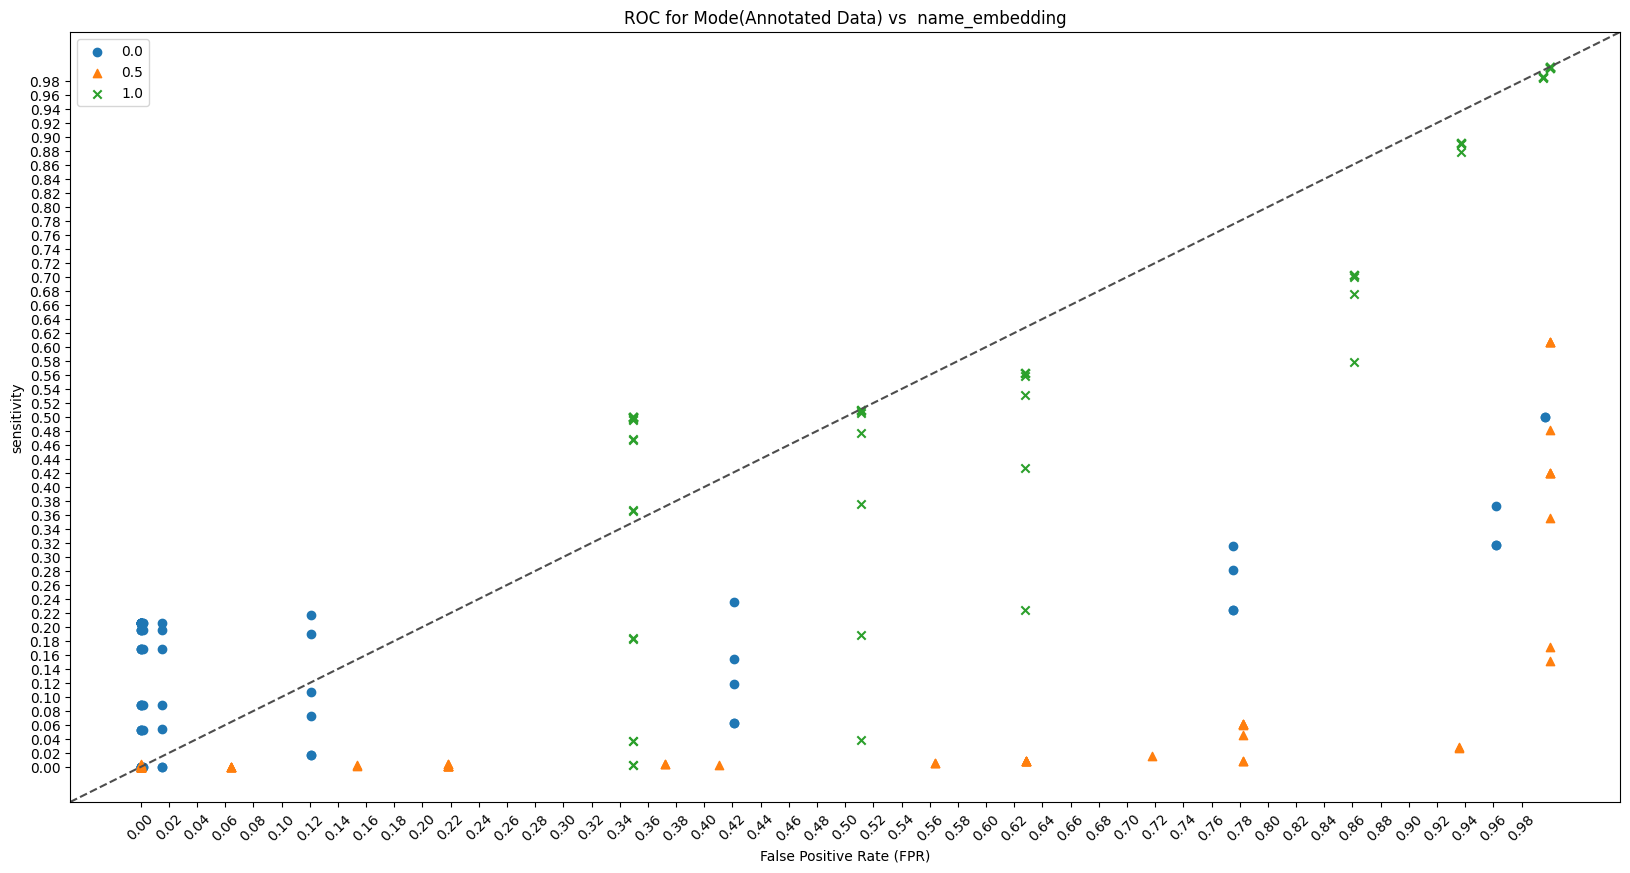
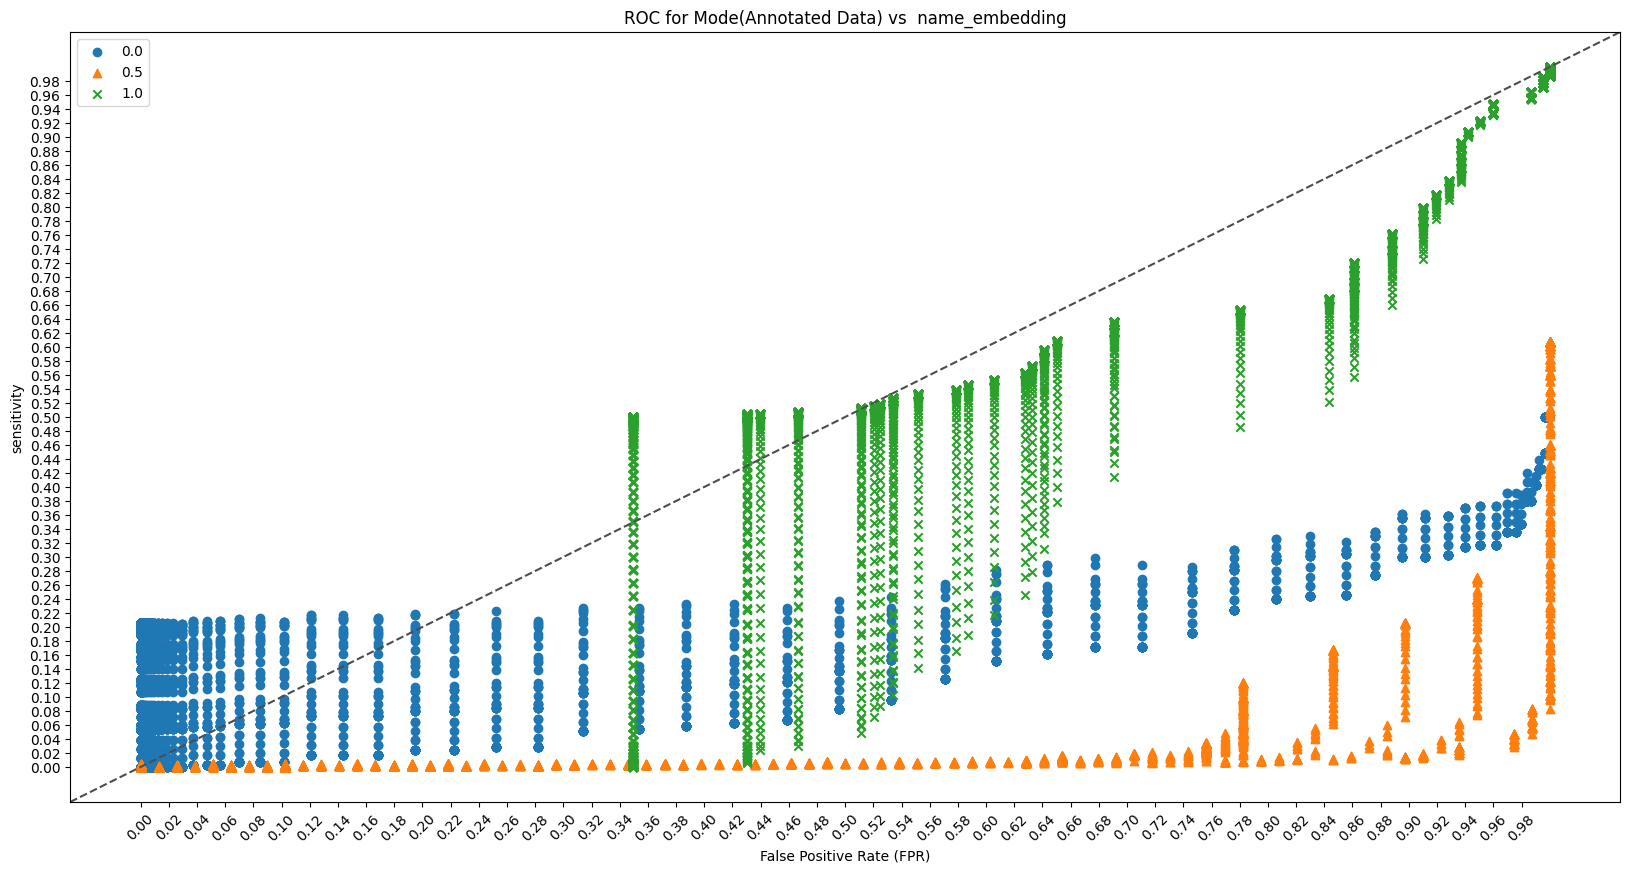
updated

diff --git a/Implementation/AnnotatedDataHandler.py b/Implementation/AnnotatedDataHandler.py
@@ -431,11 +431,11 @@ class AnnotatedDataHandler:
             averagedData.append(cellData)
         return averagedData
 
-    def collapseDataSetTo1d(self, list2dWithHeaders):
+    def collapseDataSetTo1d(self, list2dWithoutHeaders):
         list1d = []
         rowIterator = 0
         colHeadNameList = []
-        for row in list2dWithHeaders:
+        for row in list2dWithoutHeaders:
             rowIterator += 1
             # if rowIterator == 1:
             #     for attr in row:
@@ -607,10 +607,8 @@ class AnnotatedDataHandler:
         # maxFive = 0.1
         ovr_conditions = []
         ovo_conditions = []
-        while minFive < float(0.91):
-            if minFive == 1:
-                print(minFive)
-            maxFive = minFive
+        while minFive < float(0.991):
+            maxFive = minFive + float(0.01)
             while maxFive <= float(1.0):
                 thresholds = {"0.0": minFive, "0.5": maxFive}
                 conditions = {}
@@ -624,10 +622,10 @@ class AnnotatedDataHandler:
                 cm = confusion_matrix(annotatedData, data_in_1d,
                                       labels=target_names)  # , rownames=['Actual'], colnames=['Predicted'])
                 conditions["ovr"] = annotatedDataHandler.calculate_ovr_conditions(cm, thresholds)
-                print(thresholds)
+                # print(thresholds)
                 ovr_conditions.append(conditions["ovr"])
-                maxFive = float(Decimal(maxFive) + Decimal('.1'))
-            minFive = float(Decimal(minFive) + Decimal('.1'))
+                maxFive = float(Decimal(maxFive) + Decimal('.01'))
+            minFive = float(Decimal(minFive) + Decimal('.01'))
 
         print("Method " + self.computed_method[methodIndex] + " finished processing.")
 
@@ -679,7 +677,7 @@ class AnnotatedDataHandler:
 
     # Plot precision vs recall
     def plot_pr(self, condition_from_experimental_iterations, plotTitle):
-        fig = plt.figure(figsize=(20, 20))
+        fig = plt.figure(figsize=(20, 10))
         ax = fig.add_subplot(111)
         plt.xlabel('Recall')
         plt.ylabel('Precision')
@@ -698,10 +696,10 @@ class AnnotatedDataHandler:
 
             plt.plot(recall_from_experimental_iterations, precision_from_experimental_iterations, linestyle='dashed',
                      linewidth=2, label=positive_class, marker=marker, markerfacecolor=color, markersize=6)
-            for x, y, z in zip(recall_from_experimental_iterations, precision_from_experimental_iterations,
-                               thresholds_from_experimental_iterations):
-                # print(z["0.0"])
-                ax.annotate('(%.1f,%.1f)' % (z["0.0"], z["0.5"]), xy=(x, y))
+            # for x, y, z in zip(recall_from_experimental_iterations, precision_from_experimental_iterations,
+            #                    thresholds_from_experimental_iterations):
+            #     # print(z["0.0"])
+            #     ax.annotate('(%.1f,%.1f)' % (z["0.0"], z["0.5"]), xy=(x, y))
         ax.plot([0, 1], [0, 1], transform=ax.transAxes, ls="--", c=".3")
         plt.xticks(np.arange(0, 1, step=0.02), rotation=45)
         plt.yticks(np.arange(0, 1, step=0.02))
@@ -740,8 +738,8 @@ class AnnotatedDataHandler:
         self.log("saving plot:" + plotTitle)
         fig.savefig("Results/charts/" + self.get_valid_filename(plotTitle), bbox_inches='tight')
 
-
 annotatedDataHandler = AnnotatedDataHandler()
+
 # annotatedDataHandler.calculateKappaScoreBetweenAnnotators()
 # annotatedDataHandler.calculateKappaScoreBetweenComputedAndAnnotatedData(modeAnnotatedData)
 
